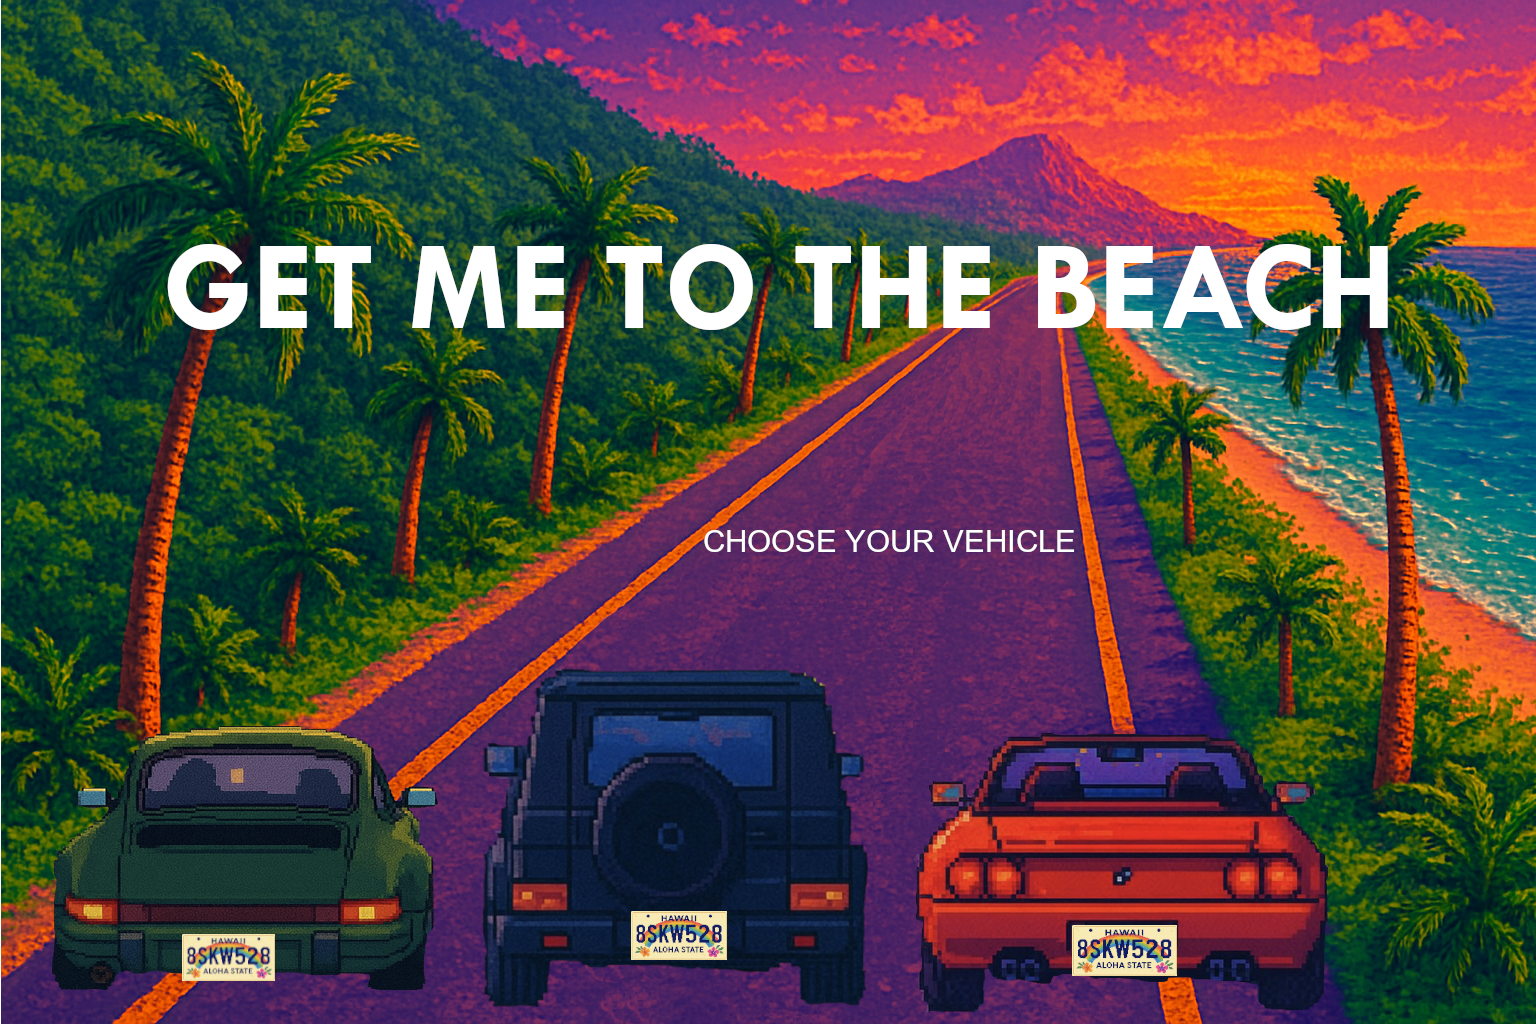
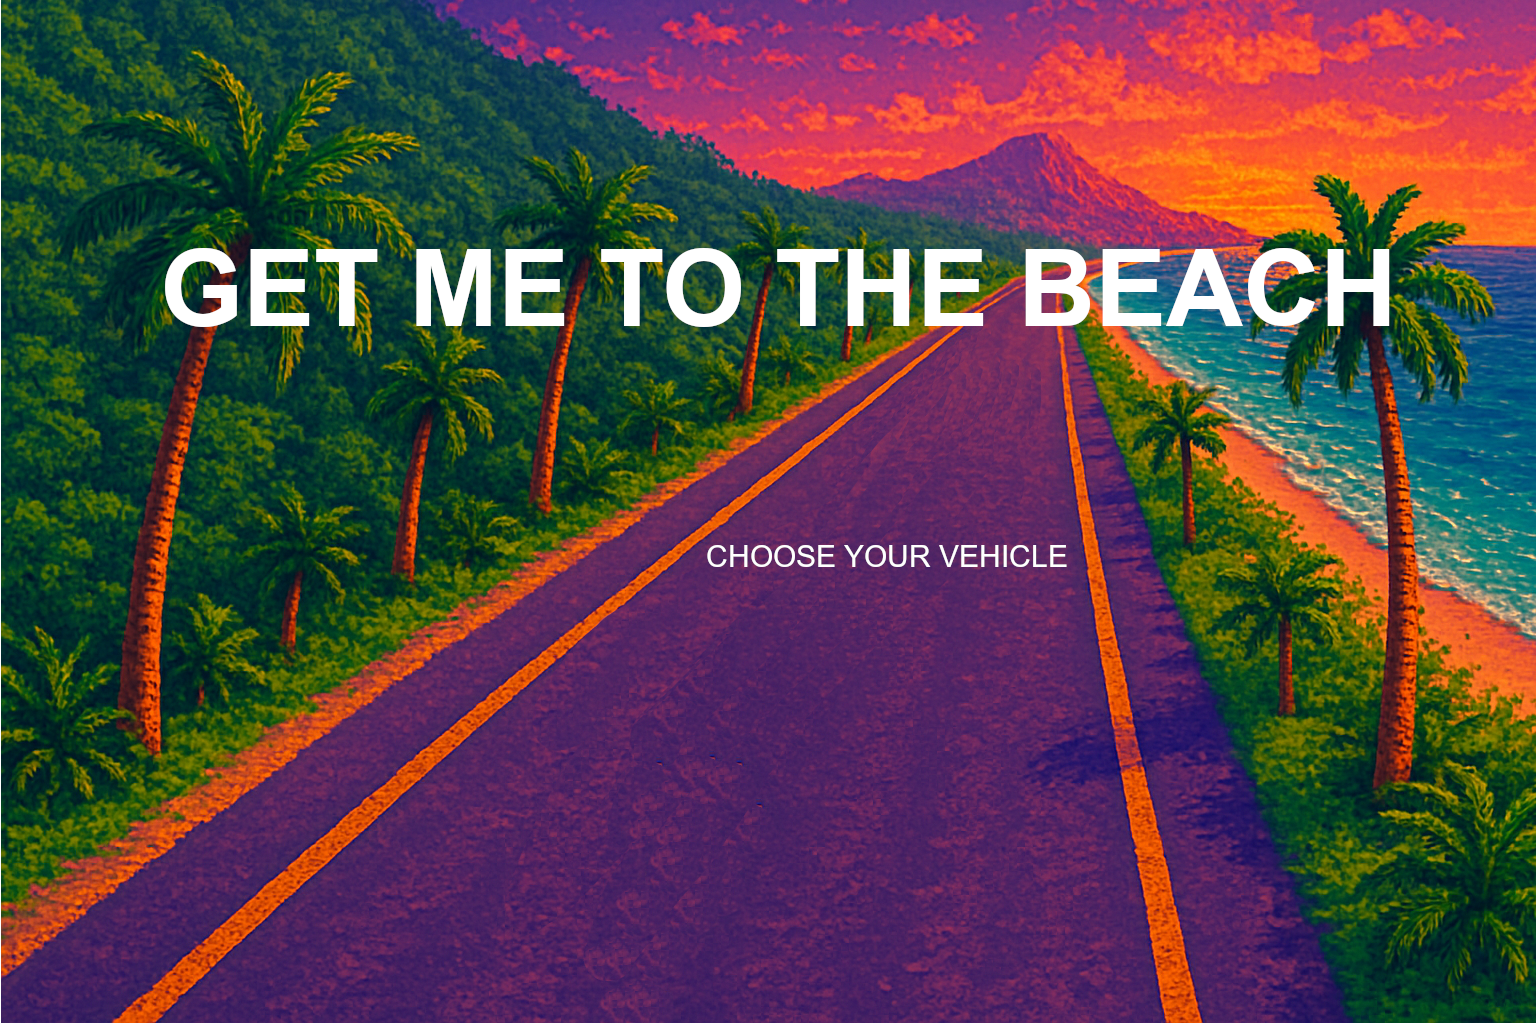
Update

diff --git a/script.js b/script.js
@@ -1,0 +1,57 @@
+// -------------------------
+// SELECT ALL SCREENS
+// -------------------------
+const page0 = document.getElementById("page0");
+const page1 = document.getElementById("page1");
+const page2 = document.getElementById("page2");
+const page3 = document.getElementById("page3");
+const page4 = document.getElementById("page4");
+const page5 = document.getElementById("page5");
+
+// -------------------------
+// HELPER FUNCTION TO SWITCH PAGES
+// -------------------------
+function showPage(page) {
+  // Hide all screens
+  page0.classList.remove("active");
+  page1.classList.remove("active");
+  page2.classList.remove("active");
+  page3.classList.remove("active");
+  page4.classList.remove("active");
+  page5.classList.remove("active");
+
+  // Show only the one we want
+  page.classList.add("active");
+}
+
+// -------------------------
+// PAGE 0 → PAGE 1 AFTER 3.5s
+// -------------------------
+setTimeout(() => {
+  showPage(page1);
+}, 3500);
+
+// -------------------------
+// CAR SELECTION
+// -------------------------
+let selectedCarImage = ""; // store the filename of the chosen car
+
+const cars = document.querySelectorAll(".car-option");
+
+cars.forEach((car) => {
+  car.addEventListener("click", () => {
+    selectedCarImage = car.src; // save the image path
+    document.getElementById("chosenCar").src = selectedCarImage; // show on page2
+    showPage(page2);
+  });
+});
+
+// -------------------------
+// START GAME BUTTON
+// -------------------------
+document.getElementById("startBtn").addEventListener("click", () => {
+  // place the chosen car on the game page
+  document.getElementById("playerCar").src = selectedCarImage;
+
+  showPage(page3);
+});

diff --git a/style.css b/style.css
@@ -1,0 +1,107 @@
+body {
+  margin: 0;
+  padding: 0;
+  overflow: hidden;
+  background-color: black;
+  font-family: Arial, sans-serif;
+}
+
+.screen {
+  display: none;
+  width: 100vw;
+  height: 100vh;
+  position: relative;
+}
+
+.screen.active {
+  display: block;
+}
+
+.full {
+  width: 100%;
+  height: 100%;
+  object-fit: cover;
+}
+
+/************* PAGE 1 – SELECT VEHICLE ****************/
+
+.car-option {
+  position: absolute;
+  width: 26%;   
+  bottom: 3%;
+  cursor: pointer;
+  transition: transform 0.2s;
+}
+
+#car-porsche {
+  left: 6%; 
+}
+
+#car-gwagon {
+  left: 34%; 
+}
+
+#car-red {
+  left: 62%;
+}
+
+/************* PAGE 2 – PREVIEW + START GAME ****************/
+.chosen-car {
+  position: absolute;
+  bottom: 2%;
+  left: 60%;
+  transform: translateX(-50%);
+  width: 22%; 
+}
+
+.start-button {
+  position: absolute;
+  top: 35%;
+  left: 55%;
+  transform: translateX(-50%);
+  width: 30%;
+  cursor: pointer;
+}
+
+
+/************* PAGE 3 – GAME PAGE ****************/
+
+#gameArea {
+  width: 100%;
+  height: 100%;
+  position: relative;
+  overflow: hidden;
+}
+
+.game-bg {
+  width: 100%;
+  height: 100%;
+  object-fit: cover;
+}
+
+.player-car {
+  position: absolute;
+  bottom: 5%;
+  left: 50%;
+  transform: translateX(-50%);
+  width: 18%;
+}
+
+/* Life bar in top-left corner */
+.life-bar {
+  position: absolute;
+  width: 30%;
+  top: 3%;
+  left: 3%;
+}
+
+/************* PAGE 4 – YOU WIN ****************/
+
+.play-again-button {
+  position: absolute;
+  bottom: 10%;
+  left: 50%;
+  transform: translateX(-50%);
+  width: 30%;
+  cursor: pointer;
+}

diff --git a/index.html b/index.html
@@ -8,12 +8,12 @@
   </head>
 
   <body>
-    <!-- PAGE 0 — START PAGE -->
+    <!-- PAGE 0 - START PAGE -->
     <div id="page0" class="screen active">
       <img src="images/pg0-start-page.png" class="full" />
     </div>
 
-    <!-- PAGE 1 — SELECT VEHICLE -->
+    <!-- PAGE 1 - SELECT VEHICLE -->
     <div id="page1" class="screen">
       <img src="images/pg1-select-vehicle.png" class="full" />
 
@@ -23,7 +23,7 @@
       <img src="images/red-convertible.png" class="car-option" id="car-red" />
     </div>
 
-    <!-- PAGE 2 — PREVIEW SELECTED CAR + START GAME -->
+    <!-- PAGE 2 - PREVIEW SELECTED CAR + START GAME -->
     <div id="page2" class="screen">
       <img src="images/pg2-start-game.png" class="full" />
 
@@ -34,7 +34,7 @@
       <img id="startBtn" src="images/start-game.png" class="start-button" />
     </div>
 
-    <!-- PAGE 3 — GAME PAGE -->
+    <!-- PAGE 3 - GAME PAGE -->
     <div id="page3" class="screen">
       <div id="gameArea">
         <!-- Empty road background -->
@@ -48,7 +48,7 @@
       </div>
     </div>
 
-    <!-- PAGE 4 — YOU WIN -->
+    <!-- PAGE 4 - YOU WIN -->
     <div id="page4" class="screen">
       <img src="images/pg4-you-win.png" class="full" />
 
@@ -60,7 +60,7 @@
       />
     </div>
 
-    <!-- PAGE 5 — GAME OVER -->
+    <!-- PAGE 5 - GAME OVER -->
     <div id="page5" class="screen">
       <img src="images/pg5-game-over.png" class="full" />
     </div>
